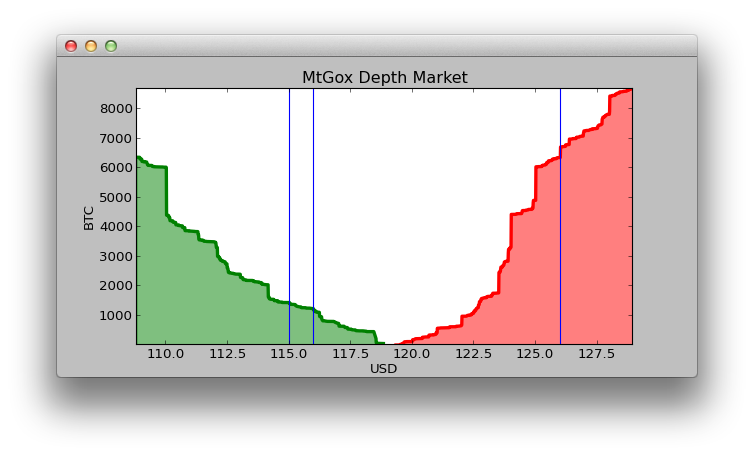
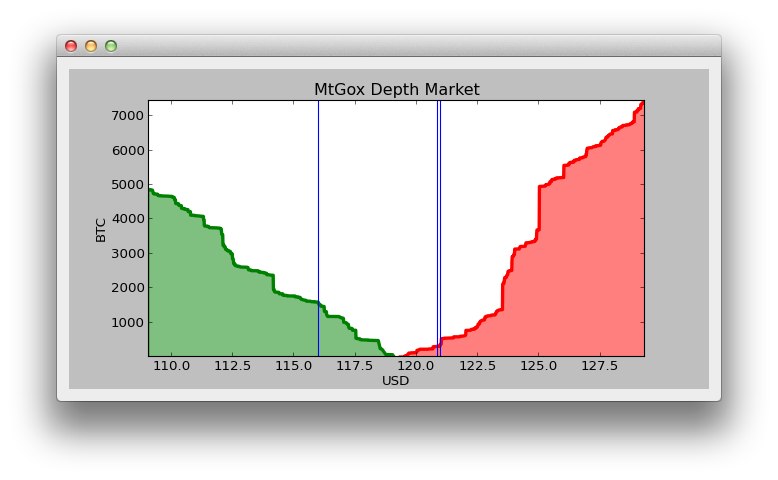
Keep the border seen in the other demos.

Changed region(s): [[0.061, 0.0614, 0.9456, 0.8596]]

diff --git a/demo_7.py b/demo_7.py
@@ -83,7 +83,15 @@ def main(key, secret):
     # USD, AUD, CAD, CHF, CNY, DKK, EUR, GBP, HKD, JPY, NZD, PLN, RUB, SEK,
     # SGD, THB, NOK, CZK
     currency = 'USD'
+
+    main = QG.QMainWindow()
+    w = QG.QWidget()
     plot = PlotDepth()
+    l = QG.QVBoxLayout()
+    l.addWidget(plot)
+    w.setLayout(l)
+    main.setCentralWidget(w)
+
     demo = Demo(plot, currency)
 
     cli = mtgox.create_client(key, secret, currency)
@@ -104,8 +112,8 @@ def main(key, secret):
             cli.sendClose()
         reactor.stop()
 
-    plot.show()
-    plot.raise_()
+    main.show()
+    main.raise_()
     reactor.runReturn()
     app.lastWindowClosed.connect(finish)
     app.exec_()
